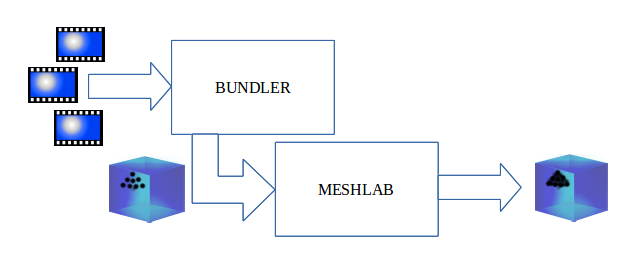
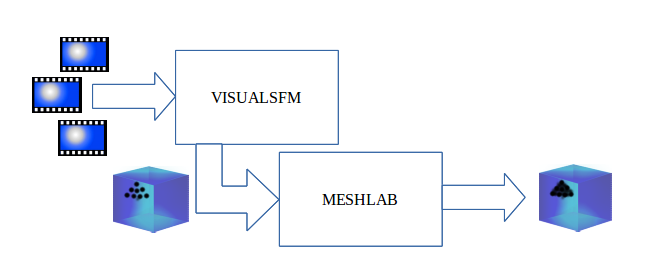
Modification bundler into visualSFM

Changed region(s): [[0.0311, 0.0882, 0.9627, 0.9118], [0.3106, 0.2941, 0.4658, 0.3824], [0.4969, 0.6765, 0.6211, 0.7647]]

diff --git a/pres/part3-reconstruction3d.tex b/pres/part3-reconstruction3d.tex
@@ -39,8 +39,8 @@
 	  %\subsection{Bundler}
 	  
 	  \begin{frame}
-	  \frametitle{Visual SFM}
-	   Visual SFM:
+	  \frametitle{VisualSFM}
+	   VisualSFM:
 	  \begin{itemize}
 	    \setbeamertemplate{itemize item}[triangle]
 	    \item Calcule les SIFT pour trouver des correspondances
@@ -74,7 +74,7 @@
 	    
   \begin{figure}
   \includegraphics[width=0.45\textwidth]{Fig/nuagePtsTemple6coup.png}
-  \includegraphics[width=0.45\textwidth]{Fig/nuagePtsTemple6coup.png}
+  \includegraphics[width=0.45\textwidth]{Fig/nuagePtsTemple8coup.png}
   \caption{Reconstruction du maillage}
   \end{figure}
   
